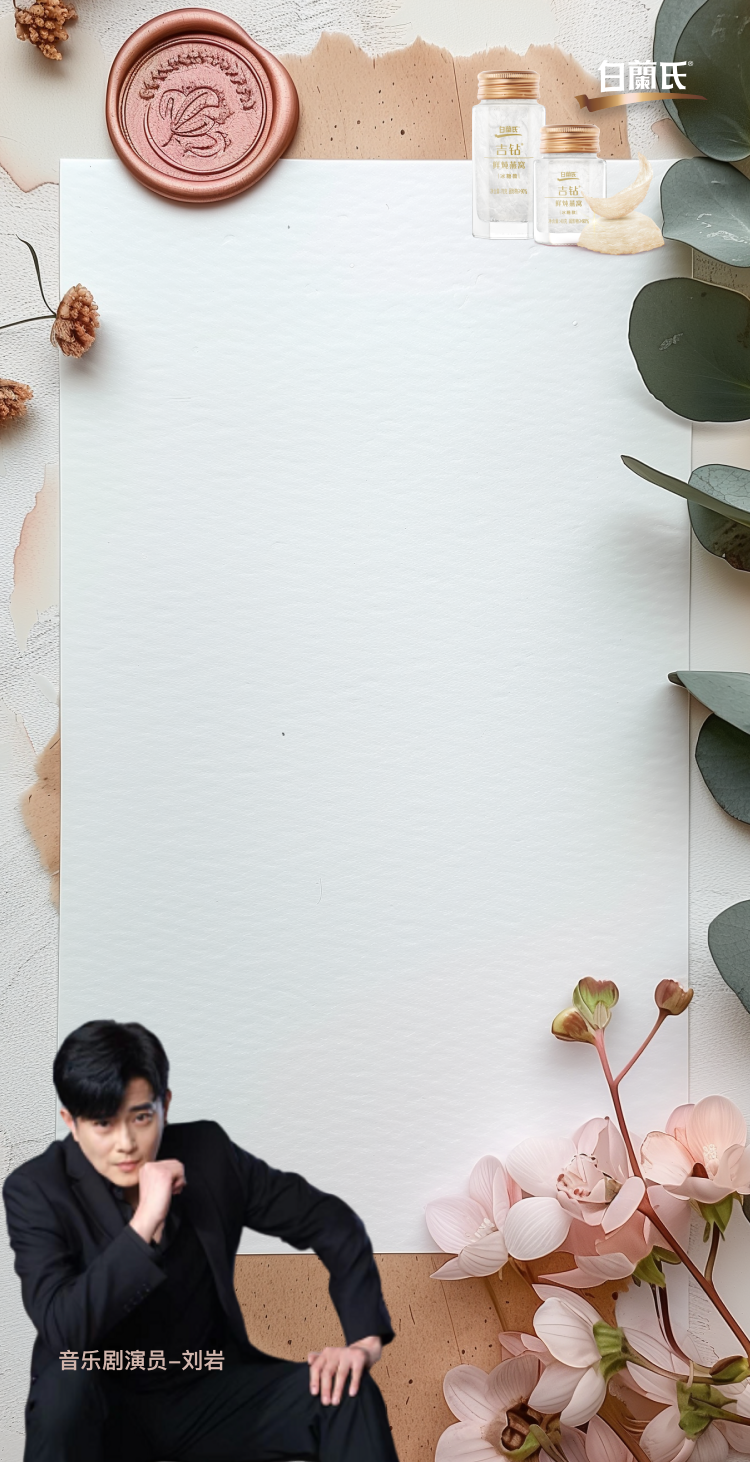
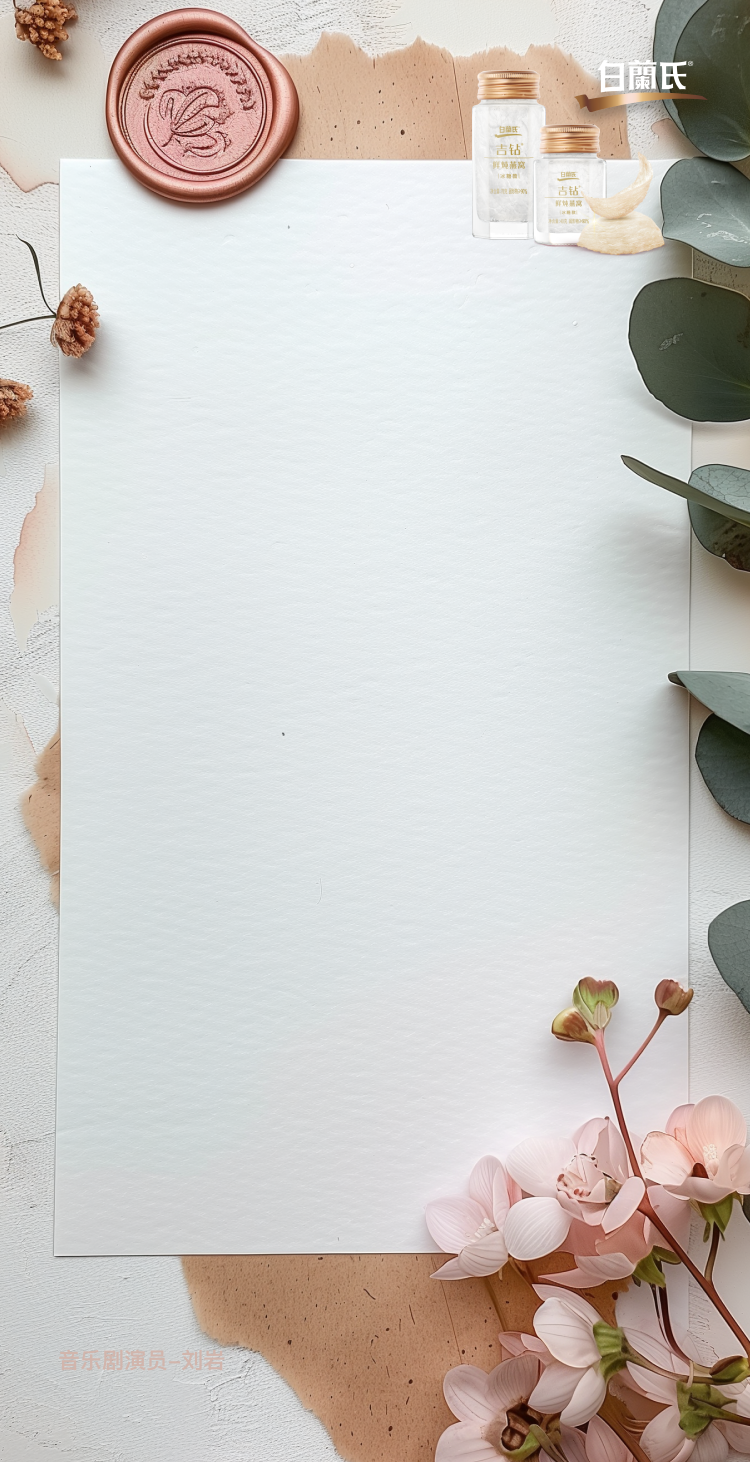
feat(粉丝来信): 人物招聘

Changed region(s): [[0.0, 0.6772, 0.552, 1.0]]

diff --git a/src/pages/LetterResult/index.tsx b/src/pages/LetterResult/index.tsx
@@ -2,26 +2,30 @@ import { apiGeneratePoem } from "@/services";
 import { useEffect, useRef, useState } from "react";
 import { useNavigate } from "react-router-dom";
 import styles from "./index.module.scss";
-import { FANS_LETTER_PROMPTS } from "@/contants";
+import {
+  FANS_LETTER_PROMPTS,
+  RESULT_BG_MAP,
+  RESULT_PERSON_MAP,
+} from "@/contants";
 import orderBy from "lodash/orderBy";
 import domtoimage from "dom-to-image";
 import Button from "@/components/Button";
 import CircularProgressBar from "@/components/CircularProgressBar";
 import { useRecoilValue } from "recoil";
 import { questionState } from "@/store/fansLetter";
-import result_bg_a from "@/assets/image/result_bg_a.png";
-import result_bg_b from "@/assets/image/result_bg_b.png";
-import result_bg_c from "@/assets/image/result_bg_c.png";
+// import result_bg_a from "@/assets/image/result_bg_a.png";
+// import result_bg_b from "@/assets/image/result_bg_b.png";
+// import result_bg_c from "@/assets/image/result_bg_c.png";
 import GeneratePanel from "./GeneratePanel";
 import classNames from "classnames";
 import { get, set } from "idb-keyval";
 import { isString } from "lodash";
 
-const RESULT_BG_MAP = {
-  A: { imgSrc: result_bg_a, padding: { x: 56, y: 106 } },
-  B: { imgSrc: result_bg_b, padding: { x: 56, y: 106 } },
-  C: { imgSrc: result_bg_c, padding: { x: 56, y: 106 } },
-};
+// const RESULT_BG_MAP = {
+//   A: { imgSrc: result_bg_a, padding: { x: 56, y: 106 } },
+//   B: { imgSrc: result_bg_b, padding: { x: 56, y: 106 } },
+//   C: { imgSrc: result_bg_c, padding: { x: 56, y: 106 } },
+// };
 
 export default function LetterResult() {
   const navigator = useNavigate();
@@ -48,6 +52,7 @@ export default function LetterResult() {
   }, []);
 
   const [choosedBg, setChoosedBg] = useState<string>("");
+  const [choosedPerson, setChoosedPerson] = useState<string>("");
 
   const [writter, setWritter] = useState<string>("一个默默支持你的粉丝");
 
@@ -55,8 +60,11 @@ export default function LetterResult() {
     if (questionAnswer) {
       console.log("questionAnswer----", questionAnswer);
       generateLetter();
+      const questionPerson = questionAnswer.find((i) => i.id === 2);
       const questionTemplate = questionAnswer.find((i) => i.id === 4);
+
       setChoosedBg(questionTemplate?.chooseAnswer?.option);
+      setChoosedPerson(questionPerson?.chooseAnswer?.option);
     }
   }, [questionAnswer]);
 
@@ -215,8 +223,13 @@ export default function LetterResult() {
               <div className="relative w-[375px] h-[730px]" ref={resultRef}>
                 <img
                   src={RESULT_BG_MAP[choosedBg]?.imgSrc}
-                  className="w-full h-full object-fill "
+                  className="w-full h-full object-fill"
                 />
+                <img
+                  src={RESULT_PERSON_MAP[choosedPerson]?.imgSrc}
+                  className="w-[64%] object-cover absolute bottom-0 left-0"
+                />
+
                 <div
                   className={classNames(
                     styles["letter_text"],

diff --git a/src/contants/index.ts b/src/contants/index.ts
@@ -1,3 +1,13 @@
+import result_bg_a from "@/assets/image/result_bg_a.png";
+import result_bg_b from "@/assets/image/result_bg_b.png";
+import result_bg_c from "@/assets/image/result_bg_c.png";
+import person_a from "@/assets/image/person_a.png";
+import person_b from "@/assets/image/person_b.png";
+import person_c from "@/assets/image/person_c.png";
+import person_d from "@/assets/image/person_d.png";
+import person_e from "@/assets/image/person_e.png";
+import person_f from "@/assets/image/person_f.png";
+
 export const RECEVIER = "刘岩";
 export const LETTERS_MAXLENGTH = 200;
 
@@ -45,20 +55,20 @@ export const FANS_LETTER_QUESTIONS = [
       },
       {
         option: "C",
-        answer: "《唐人街探案》",
+        answer: "《聂小倩与宁采臣》",
       },
       {
         option: "D",
-        answer: "《女神在看》",
+        answer: "《虎门销烟》",
       },
 
       {
         option: "E",
-        answer: "《世界的尽头》",
+        answer: "《嫌疑人X的献身》",
       },
       {
         option: "F",
-        answer: "《嫌疑人X的献身》",
+        answer: "《隐秘的角落》",
       },
     ],
   },
@@ -171,3 +181,18 @@ export const FANS_LETTER_QUESTIONS = [
     answers: [],
   },
 ];
+
+export const RESULT_BG_MAP = {
+  A: { imgSrc: result_bg_a, padding: { x: 56, y: 106 } },
+  B: { imgSrc: result_bg_b, padding: { x: 56, y: 106 } },
+  C: { imgSrc: result_bg_c, padding: { x: 56, y: 106 } },
+};
+
+export const RESULT_PERSON_MAP = {
+  A: { imgSrc: person_a, padding: { x: 56, y: 106 } },
+  B: { imgSrc: person_b, padding: { x: 56, y: 106 } },
+  C: { imgSrc: person_c, padding: { x: 56, y: 106 } },
+  D: { imgSrc: person_d, padding: { x: 56, y: 106 } },
+  E: { imgSrc: person_e, padding: { x: 56, y: 106 } },
+  F: { imgSrc: person_f, padding: { x: 56, y: 106 } },
+};

diff --git a/src/services/index.ts b/src/services/index.ts
@@ -2,17 +2,17 @@ import request from "./request";
 
 //文本生成
 export function apiGeneratePoem(data: any): Promise<any> {
-  // return request.post(`http://115.29.214.125:3000/api/aigc/textGenerate`, data);
-  return request.post(`http://127.0.0.1:3000/api/aigc/textGenerate`, data);
+  return request.post(`http://115.29.214.125:3000/api/aigc/textGenerate`, data);
+  // return request.post(`http://127.0.0.1:3000/api/aigc/textGenerate`, data);
 }
 
 //内容审查
 
 export function apiDoContentCensor(data: any): Promise<any> {
-  // return request.post(
-  //   `http://115.29.214.125:3000/api/aigc/contentCensor`,
-  //   data
-  // );
+  return request.post(
+    `http://115.29.214.125:3000/api/aigc/contentCensor`,
+    data
+  );
   // console.log("apiDoContentCensor----", data);
-  return request.post(`http://127.0.0.1:3000/api/aigc/contentCensor`, data);
+  // return request.post(`http://127.0.0.1:3000/api/aigc/contentCensor`, data);
 }
